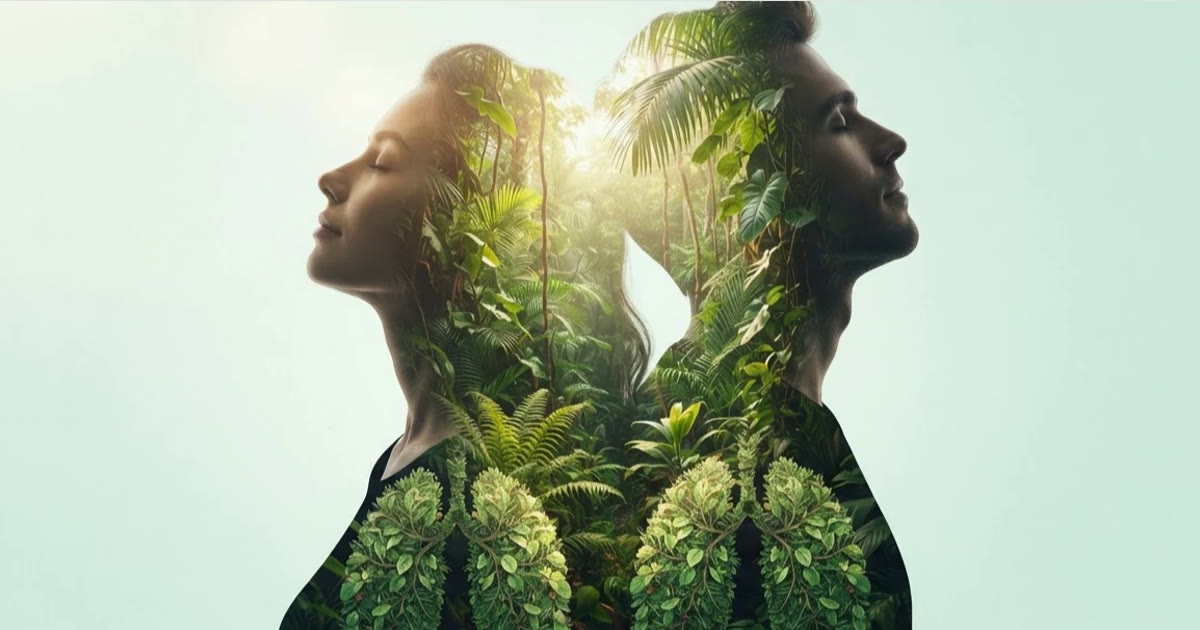
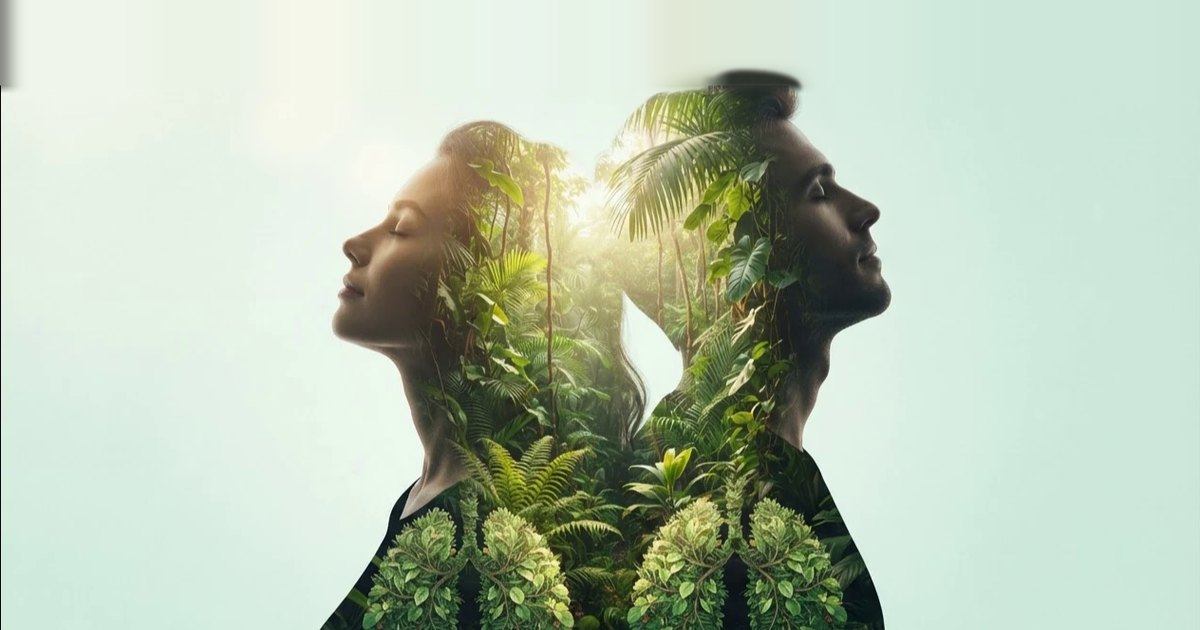
Portada: pelo del chico completo y fundido verde más abajo para que se vean los pulmones
Claude-Session: https://claude.ai/code/session_01MPVjHxFE6a3eHfzGQKjEna

diff --git a/app.html b/app.html
@@ -69,10 +69,10 @@ header.top{position:sticky; top:env(safe-area-inset-top,0px); z-index:20; backgr
 
 /* Contador principal */
 .hero{position:relative; overflow:hidden; background:var(--hero); color:var(--on-hero); border:0; padding:22px 20px 20px; isolation:isolate}
-.hero{padding-top:150px}
-.hero .hero-bg{position:absolute; inset:0 0 auto 0; height:190px; z-index:-1; background:url('../img/portada-fusionada-900.webp') 56% 24% / cover no-repeat}
-.hero .hero-bg::after{content:""; position:absolute; inset:0; background:linear-gradient(180deg, transparent 40%, color-mix(in srgb, var(--hero) 70%, transparent) 75%, var(--hero) 100%)}
-.hero-lead{font-weight:600; font-size:1rem; opacity:.92}
+.hero{padding-top:205px}
+.hero .hero-bg{position:absolute; inset:0 0 auto 0; height:262px; z-index:-1; background:url('../img/portada-fusionada-900.webp') 56% 0% / cover no-repeat}
+.hero .hero-bg::after{content:""; position:absolute; inset:0; background:linear-gradient(180deg, transparent 50%, color-mix(in srgb, var(--hero) 12%, transparent) 62%, color-mix(in srgb, var(--hero) 32%, transparent) 72%, color-mix(in srgb, var(--hero) 58%, transparent) 82%, color-mix(in srgb, var(--hero) 85%, transparent) 92%, var(--hero) 100%)}
+.hero-lead{font-weight:600; font-size:1rem; opacity:.95; text-shadow:0 1px 8px color-mix(in srgb, var(--hero) 80%, transparent)}
 .hero .label{color:inherit; opacity:.8}
 .hero canvas{position:absolute; inset:0; width:100%; height:100%; opacity:.35; pointer-events:none}
 .hero-inner{position:relative; display:flex; flex-direction:column; gap:10px}

diff --git a/app/index.html b/app/index.html
@@ -76,10 +76,10 @@ header.top{position:sticky; top:env(safe-area-inset-top,0px); z-index:20; backgr
 
 /* Contador principal */
 .hero{position:relative; overflow:hidden; background:var(--hero); color:var(--on-hero); border:0; padding:22px 20px 20px; isolation:isolate}
-.hero{padding-top:150px}
-.hero .hero-bg{position:absolute; inset:0 0 auto 0; height:190px; z-index:-1; background:url('../img/portada-fusionada-900.webp') 56% 24% / cover no-repeat}
-.hero .hero-bg::after{content:""; position:absolute; inset:0; background:linear-gradient(180deg, transparent 40%, color-mix(in srgb, var(--hero) 70%, transparent) 75%, var(--hero) 100%)}
-.hero-lead{font-weight:600; font-size:1rem; opacity:.92}
+.hero{padding-top:205px}
+.hero .hero-bg{position:absolute; inset:0 0 auto 0; height:262px; z-index:-1; background:url('../img/portada-fusionada-900.webp') 56% 0% / cover no-repeat}
+.hero .hero-bg::after{content:""; position:absolute; inset:0; background:linear-gradient(180deg, transparent 50%, color-mix(in srgb, var(--hero) 12%, transparent) 62%, color-mix(in srgb, var(--hero) 32%, transparent) 72%, color-mix(in srgb, var(--hero) 58%, transparent) 82%, color-mix(in srgb, var(--hero) 85%, transparent) 92%, var(--hero) 100%)}
+.hero-lead{font-weight:600; font-size:1rem; opacity:.95; text-shadow:0 1px 8px color-mix(in srgb, var(--hero) 80%, transparent)}
 .hero .label{color:inherit; opacity:.8}
 .hero canvas{position:absolute; inset:0; width:100%; height:100%; opacity:.35; pointer-events:none}
 .hero-inner{position:relative; display:flex; flex-direction:column; gap:10px}

diff --git a/index.html b/index.html
@@ -197,7 +197,7 @@ footer .wrap{display:flex; flex-wrap:wrap; justify-content:space-between; gap:12
     <div class="trust"><span>Sin registro</span><span>Tabaco o vaper</span><span>Funciona sin internet</span><span>15 días gratis, sin tarjeta</span></div>
   </div>
   <div class="hero-visual has-photo nophone">
-  <img class="hero-photo" src="img/portada-fusionada.webp" srcset="img/portada-fusionada-900.webp 900w, img/portada-fusionada.webp 1264w" sizes="(max-width: 860px) 100vw, 45vw" width="1264" height="607" alt="Una mujer y un hombre espalda con espalda respirando, con una selva verde dentro de los pulmones" fetchpriority="high">
+  <img class="hero-photo" src="img/portada-fusionada.webp" srcset="img/portada-fusionada-900.webp 900w, img/portada-fusionada.webp 1264w" sizes="(max-width: 860px) 100vw, 45vw" width="1264" height="691" alt="Una mujer y un hombre espalda con espalda respirando, con una selva verde dentro de los pulmones" fetchpriority="high">
   <div class="phone" aria-label="Vista de la app Aire">
     <div class="screen">
       <div class="scr-hero"><small>Llevas sin fumar</small><b><span id="dDays">9</span> días</b><span class="num" id="dHms">04 h 12 min 00 s</span></div>

diff --git a/landing.html b/landing.html
@@ -188,7 +188,7 @@ footer .wrap{display:flex; flex-wrap:wrap; justify-content:space-between; gap:12
     <div class="trust"><span>Sin registro</span><span>Tabaco o vaper</span><span>Funciona sin internet</span><span>15 días gratis, sin tarjeta</span></div>
   </div>
   <div class="hero-visual has-photo nophone">
-  <img class="hero-photo" src="img/portada-fusionada.webp" srcset="img/portada-fusionada-900.webp 900w, img/portada-fusionada.webp 1264w" sizes="(max-width: 860px) 100vw, 45vw" width="1264" height="607" alt="Una mujer y un hombre espalda con espalda respirando, con una selva verde dentro de los pulmones" fetchpriority="high">
+  <img class="hero-photo" src="img/portada-fusionada.webp" srcset="img/portada-fusionada-900.webp 900w, img/portada-fusionada.webp 1264w" sizes="(max-width: 860px) 100vw, 45vw" width="1264" height="691" alt="Una mujer y un hombre espalda con espalda respirando, con una selva verde dentro de los pulmones" fetchpriority="high">
   <div class="phone" aria-label="Vista de la app Aire">
     <div class="screen">
       <div class="scr-hero"><small>Llevas sin fumar</small><b><span id="dDays">9</span> días</b><span class="num" id="dHms">04 h 12 min 00 s</span></div>

diff --git a/app/sw.js b/app/sw.js
@@ -1,5 +1,5 @@
 // Aire · funciona sin conexión: guarda la app en caché y la sirve aunque no haya red.
-const CACHE = 'aire-v13';
+const CACHE = 'aire-v14';
 const SHELL = ['./', './index.html', './manifest.webmanifest', './icon.svg', './icon-192.png', './icon-512.png', '../img/airi-feliz.webp', '../img/airi-celebra.webp', '../img/airi-medalla.webp', '../img/pulmones.webp', '../img/logo-pulmones.webp', '../img/portada-pareja-900.webp', '../img/portada-fusionada-900.webp'];
 
 self.addEventListener('install', e => {
